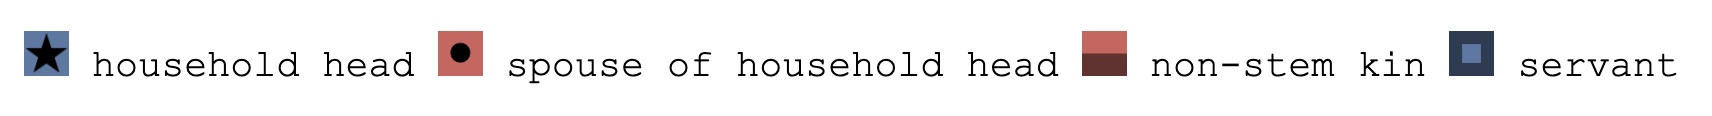
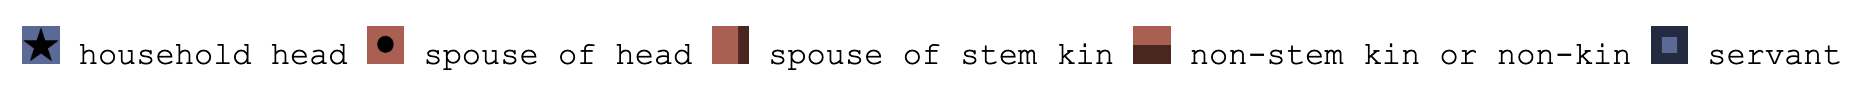
UI fixes

Changed region(s): [[0.0, 0.2424, 0.9907, 0.697], [0.3096, 0.697, 0.3405, 0.7273]]

diff --git a/js/map.js b/js/map.js
@@ -345,7 +345,7 @@ function createEgoCard(egoData, egocounter,year,show_lifeline = true,show_map = 
 	// on hover, highlight other divs with the same ego on the mini timeline
 	egoDiv.onmouseover = function() {
 		
-		// for all other divs with different ego, set the divs opacity to 0.5
+		// for all other divs with different ego, set the divs opacity to 0.2
 		for (const div of document.querySelectorAll('div[ego]:not([ego="'+egoData.ego+'"])')) {
 			div.style.opacity = 0.2;
 		}
@@ -359,8 +359,6 @@ function createEgoCard(egoData, egocounter,year,show_lifeline = true,show_map = 
 			div.style.opacity = 1;
 		}
 	}
-
-
 
 	// create a header for the ego
 	egoHeader = document.createElement('h3');
@@ -376,17 +374,22 @@ function createEgoCard(egoData, egocounter,year,show_lifeline = true,show_map = 
 	
 	// make ego a number
 	ego = parseInt(ego);
-	// if nsex is M, use male emoji, else use female emoji
-	if (egoData.nsex === 'M') {
-		nsexhtml = '<span class="male">㊚</span>';
-	} else {
-		nsexhtml = '<span class="female">㊛</span>';
-	}
 
 	// check if birth_vil is different from vil_id
 	bornhtml = '';
 	if (egoData.birth_vil !== egoData.vil_id) {
-		bornhtml += '<br><span style="font-size:1.2rem">➟⌂</span> '+getVillageInfo(egoData.birth_vil,egoData.vil_id,show_map);
+		// bornhtml += '<br><span style="font-size:1.2rem">➟⌂</span> '+getVillageInfo(egoData.birth_vil,egoData.vil_id,show_map);
+		// add the name of the village to the bornhtml
+		// return the village data
+		from_village =  village_df.find(village_df => village_df.vil_id === egoData.birth_vil);
+		if (from_village === undefined) {
+			bornhtml += 'village not found';
+		}
+		else
+		{
+			bornhtml += '<br><span style="font-size:1.2rem">➟⌂</span> <span style="font-size:0.6rem">'+from_village.Mura+' '+from_village.Gun+' '+from_village.Kuni+'</span>';
+		}
+			
 	}
 	// lifespan html
 	if (egoData.death === 0) {
@@ -410,7 +413,7 @@ function createEgoCard(egoData, egocounter,year,show_lifeline = true,show_map = 
 	} else if (egoData.rel === 6) {
 		relhtml = '<br>servant';
 	} else if (egoData.rel === 7) {
-		relhtml = '<span style="font-size:1.5rem;color:red;">★</span><br>';
+		relhtml = '<span style="font-size:1.5rem;color:black;">●</span><br>';
 	}
 
 	// icon
@@ -447,16 +450,11 @@ function createEgoCard(egoData, egocounter,year,show_lifeline = true,show_map = 
 		lifelinehtml = '';
 	}
 
-	egoHeader.innerHTML = egocounter + '. <b>' + iconhtml + ' ' + age + '歳</b>'+relhtml+'<br>'+lifespanhtml+bornhtml+lifelinehtml;
-
-	// egoHeader.innerHTML = egocounter + '. <b>' + iconhtml + ' ' + age + ' years old</b> '+relhtml+'<br>'+lifespanhtml+'<br>'+egoData.ego+'(ego)<br>'+egoData.father+'(father)'+'<br>'+egoData.mother+'(mother)'+bornhtml+'<br><span class="lifeline">'+createLifeLine(egoData.birthnac, document.getElementById('yearDropdown').value, egoData.death)+'</span>';
+	egoHeader.innerHTML = egocounter + '. <b>' + iconhtml + ' <span style="font-size:1.8rem">' + age + '</span></b>歳'+relhtml+'<br>'+lifespanhtml+bornhtml+lifelinehtml;
 
 	egoDiv.appendChild(egoHeader);
 	
 	// if egoData nsex is M, set the color to blue, else set it to red
-	// calculate age by subtracting the dropdown year from the egoData birthnac
-	// append the age to the egoDiv
-	// egoDiv.style.backgroundColor = egoData.nsex === 'M' ? 'lightblue' : 'lightcoral';
 	egoDiv.className = egoData.nsex ===	'M' ? 'egoMale' : 'egoFemale';
 
 	// override if servant
@@ -465,12 +463,16 @@ function createEgoCard(egoData, egocounter,year,show_lifeline = true,show_map = 
 		egoDiv.style.border = '10px solid rgba(0,0,0,0.5)';
 	}
 
+	// override if semi stem kin
+	if (egoData.rel === 3) {
+		egoDiv.style.boxSizing = 'border-box';
+		egoDiv.style.borderRight = '10px solid rgba(0,0,0,0.5)';
+	}
+
 	// override if non kin 4 or 5	
 	if (egoData.rel === 4 || egoData.rel === 5) {
 		egoDiv.style.boxSizing = 'border-box';
 		egoDiv.style.borderBottom = '10px solid rgba(0,0,0,0.5)';
-
-		// egoDiv.className = 'egoNonKin';
 	}
 
 	// append the ego to the household
@@ -489,8 +491,9 @@ function createLegend() {
 	// create a single line for the legend
 	let legendHTML = '';
 	legendHTML += '<img src="images/box-head.jpg" width=15> household head ';
-	legendHTML += '<img src="images/box-head-spouse.jpg" width=15> spouse of household head ';
-	legendHTML += '<img src="images/box-non-stem-kin.jpg" width=15> non-stem kin ';
+	legendHTML += '<img src="images/box-head-spouse.jpg" width=15> spouse of head ';
+	legendHTML += '<img src="images/box-semi-stem-kin.jpg" width=15> spouse of stem kin ';
+	legendHTML += '<img src="images/box-non-stem-kin.jpg" width=15> non-stem kin or non-kin ';
 	legendHTML += '<img src="images/box-servant.jpg" width=15> servant';
 
 	legendDiv.innerHTML += legendHTML;
@@ -542,14 +545,14 @@ function createMiniEgoCard(egoData,current_year) {
 	egoDiv.innerHTML = relhtml;
 	egoDiv.className = egoData.nsex ===	'M' ? 'mini-egoMale' : 'mini-egoFemale';
 
+	// servant
 	if (egoData.rel === 6) {
-		// add a css inner border to egoDiv
 		egoDiv.style.boxSizing = 'border-box';
-		egoDiv.style.border = '3px solid rgba(0,0,0,0.5)';
-		
-		// egoDiv.className = 'mini-egoServant';
-		// add a css diagonal line to egoDiv
-		// egoDiv.style.backgroundImage = 'linear-gradient(45deg, black 25%, transparent 25%, transparent 75%, black 75%, black), linear-gradient(-45deg, black 25%, transparent 25%, transparent 75%, black 75%, black)';
+		egoDiv.style.border = '3px solid rgba(0,0,0,0.5)';	
+	}
+	else if (egoData.rel === 3) {
+		egoDiv.style.boxSizing = 'border-box';
+		egoDiv.style.borderRight = '3px solid rgba(0,0,0,0.5)';
 	}
 	else if (egoData.rel === 4 || egoData.rel === 5) {
 		egoDiv.style.boxSizing = 'border-box';
@@ -756,7 +759,7 @@ function getVillageInfo(from_vil_id,to_vil_id,show_map = true) {
 		{
 			village_map_html = '';
 		}
-		return from_village.Mura+' '+from_village.Gun+' '+from_village.Kuni+'<br>'+village_map_html;
+		return '<span style="font-size:1rem">'+from_village.Mura+' '+from_village.Gun+' '+from_village.Kuni+'<br>'+village_map_html+'</span>';
 	}
 }
 

diff --git a/README.md b/README.md
@@ -151,6 +151,13 @@ Here, one witnesses a relatively short family history, from 1793 to 1851. The ma
 
 What happens next is entirely up to speculation. The household is joined by relatives (including a 13 year old niece). At the same time, the wife of the deceased husband is absent for two years, taking a leave to deal with the death of her husband, only to come back in 1813 assuming the role as the new household head. She does not return alone. She now has a new husband with her (1813), and together, they live until their respective deaths many years later, without having any children.
 
+## Thoughts
+
+Visualizing history through interactive platforms adds dimensions that are not possible to experience through traditional interfaces. FaViz brings several of these new dimensions to the forefront.
+
+- the mini-timeline
+
+
 This, and many more narratives are available to witness via this interactive web platform. In doing so, we discover patterns previously not seen through tabular or other forms of data analysis, as the visual narratives convey the human story in an immersive manner.
 
 
